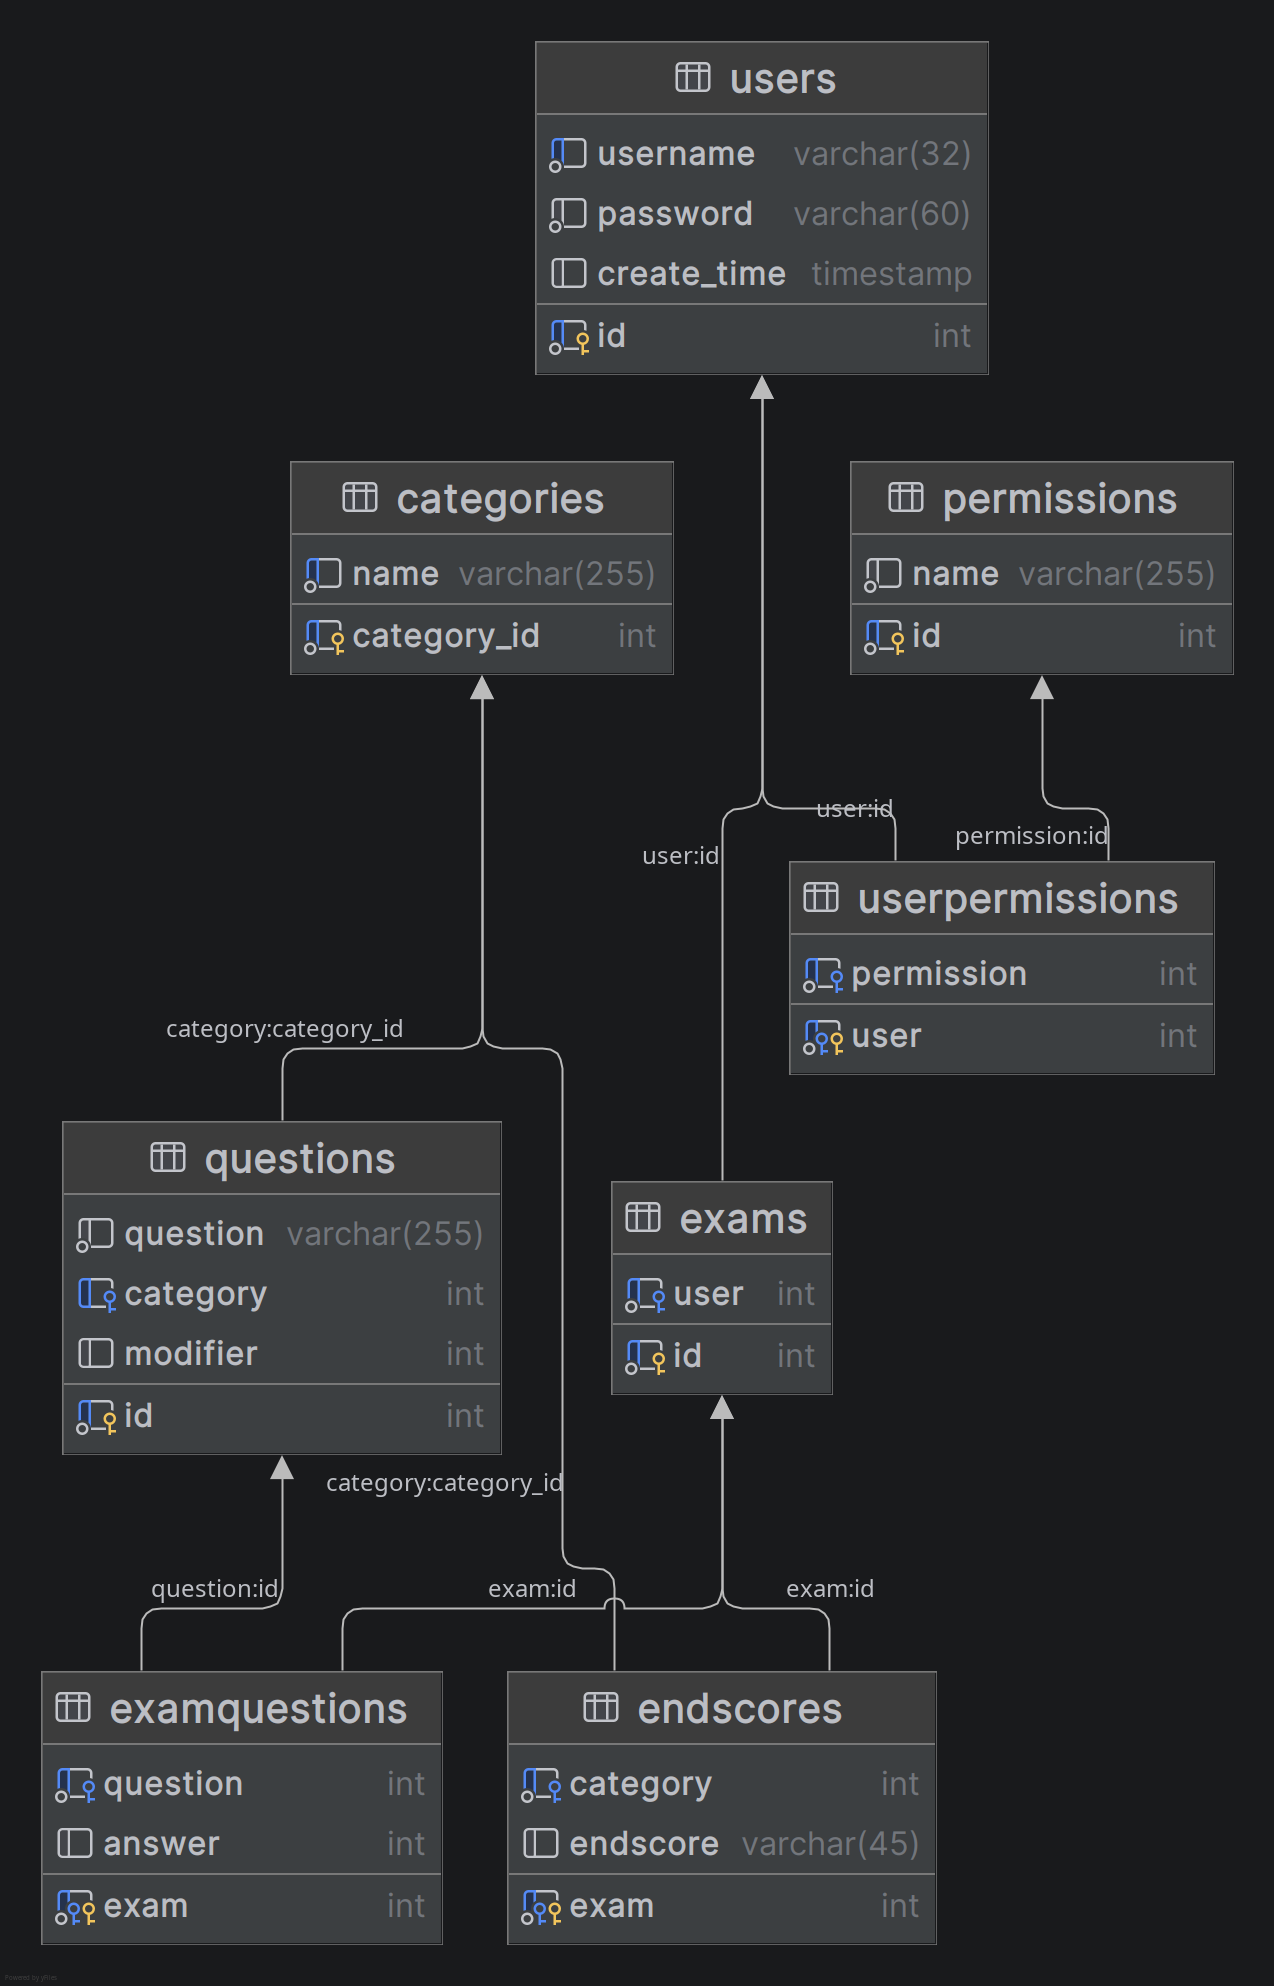
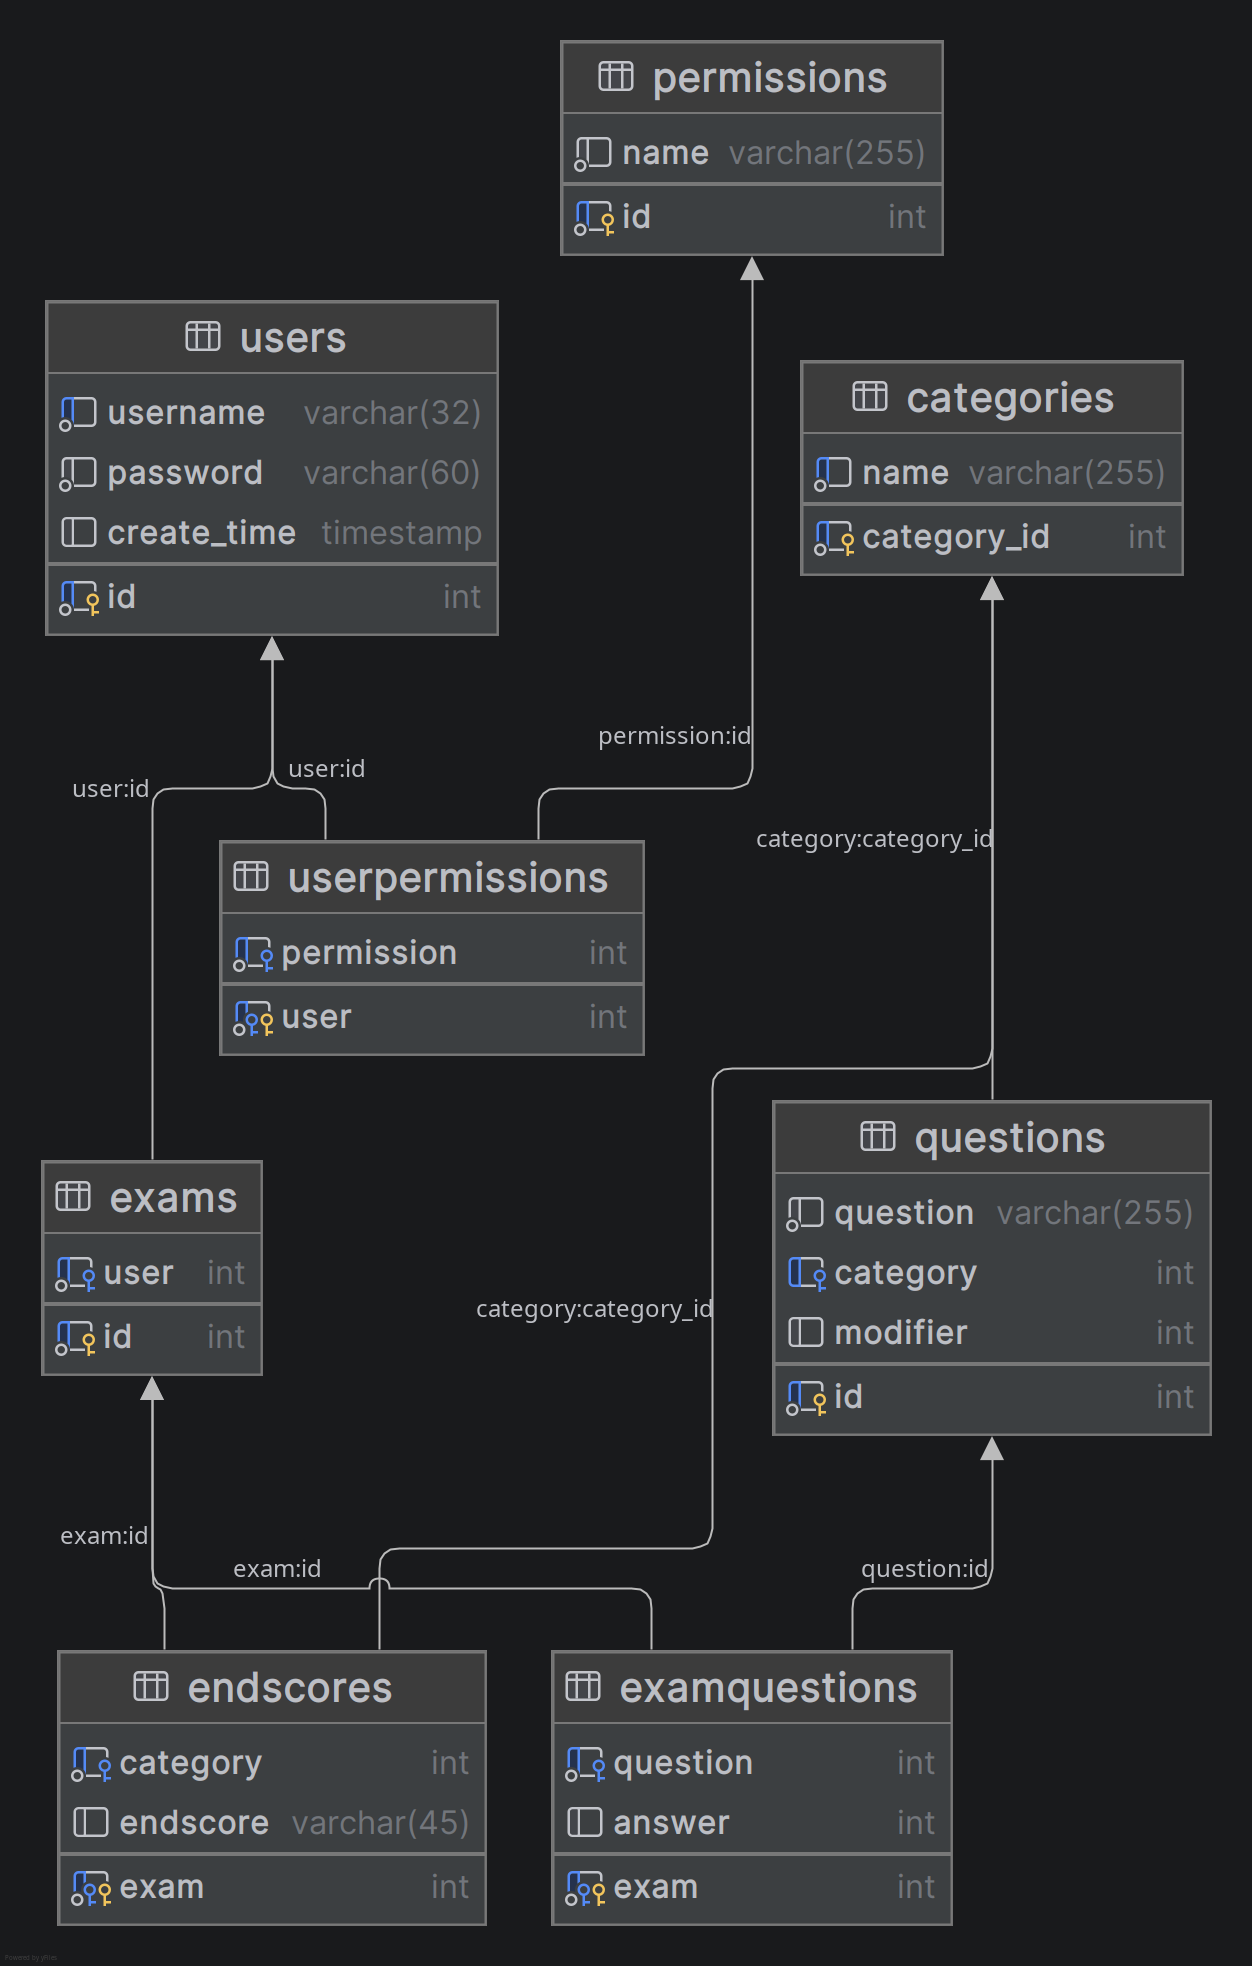
Replace simple admin dashboard with a standard HTML user management template
Description

    Delete Python/templates/admin_dashboard.html.

    Create Python/templates/user_management.html with a base HTML5 structure.

diff --git a/Python/templates/user_management.html b/Python/templates/user_management.html
@@ -1,0 +1,76 @@
+{% extends 'template.html' %}
+{% block body %}
+    <h1>User Management</h1>
+    <p><a href="{{ url_for('dashboard') }}">← Back to Dashboard</a></p>
+
+    <hr>
+
+    <h2>Create New User</h2>
+    <form method="POST" action="{{ url_for('user_management') }}">
+        {{ form.hidden_tag() }}
+        <div>
+            {{ form.username.label }} <br>
+            {{ form.username() }}
+        </div>
+        <div>
+            {{ form.password.label }} <br>
+            {{ form.password() }}
+        </div>
+        <br>
+        {{ form.submit() }}
+    </form>
+
+    <hr>
+
+    <h2>Existing Users</h2>
+    <table border="1" cellpadding="8" style="border-collapse: collapse; width: 100%; text-align: left;">
+        <thead>
+            <tr>
+                <th>ID</th>
+                <th>Username</th>
+                <th>Created At</th>
+                <th>Permissions</th>
+                <th>Actions</th>
+            </tr>
+        </thead>
+        <tbody>
+            {% for user in users %}
+            <tr>
+                <td>{{ user.id }}</td>
+                <td><strong>{{ user.username }}</strong></td>
+                <td>{{ user.create_time }}</td>
+                <td>
+                    <form method="POST" action="{{ url_for('update_permissions', user_id=user.id) }}" style="display:inline;">
+                        <input type="hidden" name="csrf_token" value="{{ csrf_token() }}">
+
+                        {% for perm in available_permissions %}
+                            <label style="margin-right: 10px;">
+                                <input type="checkbox"
+                                       name="permissions_{{ user.id }}"
+                                       value="{{ perm.id }}"
+                                       {% if perm.name in user.permissions %}checked{% endif %}
+                                {% if user.username == g.username %}disabled{% endif %}
+                                >
+                                {{ perm.name }}
+                            </label>
+                        {% endfor %}
+                        {% if user.username != g.username %}
+                        <button type="submit" style="margin-left: 10px;" >Save Perms</button>
+                    {% endif %}
+                    </form>
+                </td>
+                <td>
+                    {% if user.id != g.user_id %}
+                        <form method="POST" action="{{ url_for('delete_user', user_id=user.id) }}" onsubmit="return confirm('Are you sure you want to delete user: {{ user.username }}?');" style="display:inline;">
+                            <input type="hidden" name="csrf_token" value="{{ csrf_token() }}">
+                            <button type="submit" style="color: red;">Delete</button>
+                        </form>
+                    {% else %}
+                        <span style="color: gray; font-style: italic;">Logged In</span>
+                    {% endif %}
+                </td>
+            </tr>
+            {% endfor %}
+        </tbody>
+    </table>
+{% endblock body %}

diff --git a/Python/templates/dashboard.html b/Python/templates/dashboard.html
@@ -3,7 +3,7 @@
     <h1>Welkom bij KAES, {{ g.username }}</h1>
 
     {% if 'admin' in g.user_permissions %}
-        <a href="{{ url_for('admin_dashboard') }}">Admin Dashboard</a>
+        <a href="{{ url_for('user_management') }}">User Management</a>
     {% endif %}
 
     <a href="{{ url_for('logout') }}">Logout</a>

diff --git a/Python/KAESdatabase.py b/Python/KAESdatabase.py
@@ -223,3 +223,60 @@ class kaes_database:
                 'id': user['id'],
                 'permissions': permissions_list
             }
+
+    def get_all_users(self):
+        """Fetches all users and their associated permissions."""
+        with self.get_cursor(dictionary=True) as cursor:
+            # Fetch all users
+            cursor.execute("SELECT id, username, create_time FROM users")
+            users = cursor.fetchall()
+
+            # Fetch all permission assignments
+            query = """
+                    SELECT up.user, p.name
+                    FROM userpermissions up
+                             JOIN permissions p ON up.permission = p.id \
+                    """
+            cursor.execute(query)
+            permission_rows = cursor.fetchall()
+
+            # Group permissions by user ID
+            user_perms = {}
+            for row in permission_rows:
+                user_perms.setdefault(row['user'], []).append(row['name'])
+
+            # Combine them
+            for user in users:
+                user['permissions'] = user_perms.get(user['id'], [])
+
+            return users
+
+    def get_all_available_permissions(self):
+        """Fetches all possible permission types from the permissions table."""
+        with self.get_cursor(dictionary=True) as cursor:
+            cursor.execute("SELECT id, name FROM permissions")
+            return cursor.fetchall()
+
+    def delete_user(self, user_id):
+        """Deletes a user and their associated permissions cascadingly."""
+        with self.get_cursor() as cursor:
+            # First clean up the join table for this user
+            cursor.execute("DELETE FROM userpermissions WHERE user = %s", (user_id,))
+            # Delete from users table
+            cursor.execute("DELETE FROM users WHERE id = %s", (user_id,))
+            self.connection.commit()
+
+    def update_user_permissions(self, user_id, permission_ids):
+        """Clears existing permissions and assigns a new list of permission IDs."""
+        with self.get_cursor() as cursor:
+            # Remove old permissions
+            cursor.execute("DELETE FROM userpermissions WHERE user = %s", (user_id,))
+
+            # Insert new permissions
+            if permission_ids:
+                insert_query = "INSERT INTO userpermissions (user, permission) VALUES (%s, %s)"
+                # Prepare data tuple list for executemany
+                data = [(user_id, int(perm_id)) for perm_id in permission_ids]
+                cursor.executemany(insert_query, data)
+
+            self.connection.commit()

diff --git a/Python/app.py b/Python/app.py
@@ -5,7 +5,7 @@ from flask import Flask, render_template, flash, g, session, redirect, url_for
 from KAESdatabase import kaes_database
 from flask_session import Session
 from flask_wtf.csrf import CSRFProtect
-from forms import LoginForm
+from forms import LoginForm, CreateUserForm
 from functools import wraps
 app = Flask(__name__)
 
@@ -99,9 +99,58 @@ def dashboard():
     return render_template('dashboard.html')
 
 
[email redacted]('/admin')
-def admin_dashboard():
-    return render_template('admin_dashboard.html')
[email redacted]('/user_management', methods=['GET', 'POST'])
+@permission_required('admin')  # Protect the route!
+def user_management():
+    if 'user' not in session:
+        return redirect(url_for('log_in'))
+
+    db = get_db()
+    form = CreateUserForm()
+
+    # Handle user creation
+    if form.validate_on_submit():
+        try:
+            db.add_user(form.username.data, form.password.data)
+            flash(f"User '{form.username.data}' created successfully!", "success")
+            return redirect(url_for('user_management'))
+        except Exception as e:
+            flash("Error creating user. Username might already exist.", "danger")
+
+    # Fetch data to present in template
+    all_users = db.get_all_users()
+    all_permissions = db.get_all_available_permissions()
+
+    return render_template('user_management.html', form=form, users=all_users, available_permissions=all_permissions)
+
+
[email redacted]('/user_management/delete/<int:user_id>', methods=['POST'])
+@permission_required('admin')
+def delete_user(user_id):
+    # Prevent an admin from deleting themselves accidentally
+    if g.user_id == user_id:
+        flash("You cannot delete your own account!", "danger")
+        return redirect(url_for('user_management'))
+
+    db = get_db()
+    db.delete_user(user_id)
+    flash("User deleted successfully.", "success")
+    return redirect(url_for('user_management'))
+
+
[email redacted]('/user_management/update_permissions/<int:user_id>', methods=['POST'])
+@permission_required('admin')
+def update_permissions(user_id):
+    import flask  # To grab raw request form values
+    db = get_db()
+
+    # Get all checked permission checkboxes for this specific user
+    # HTML input names will be structured like: permissions_{{ user_id }}
+    selected_perms = flask.request.form.getlist(f'permissions_{user_id}')
+
+    db.update_user_permissions(user_id, selected_perms)
+    flash("Permissions updated successfully.", "success")
+    return redirect(url_for('user_management'))
 
 def has_permission(permission_name):
     if 'user' not in session:

diff --git a/Python/forms.py b/Python/forms.py
@@ -7,3 +7,8 @@ class LoginForm(FlaskForm):
     username = StringField('Username', validators=[DataRequired(), Length(min=3, max=25)])
     password = PasswordField('Password', validators=[DataRequired(), Length(min=6, max=25)])
     submit = SubmitField('Login')
+
+class CreateUserForm(FlaskForm):
+    username = StringField('Username', validators=[DataRequired(), Length(min=3, max=25)])
+    password = PasswordField('Password', validators=[DataRequired(), Length(min=6, max=25)])
+    submit = SubmitField('Create User')